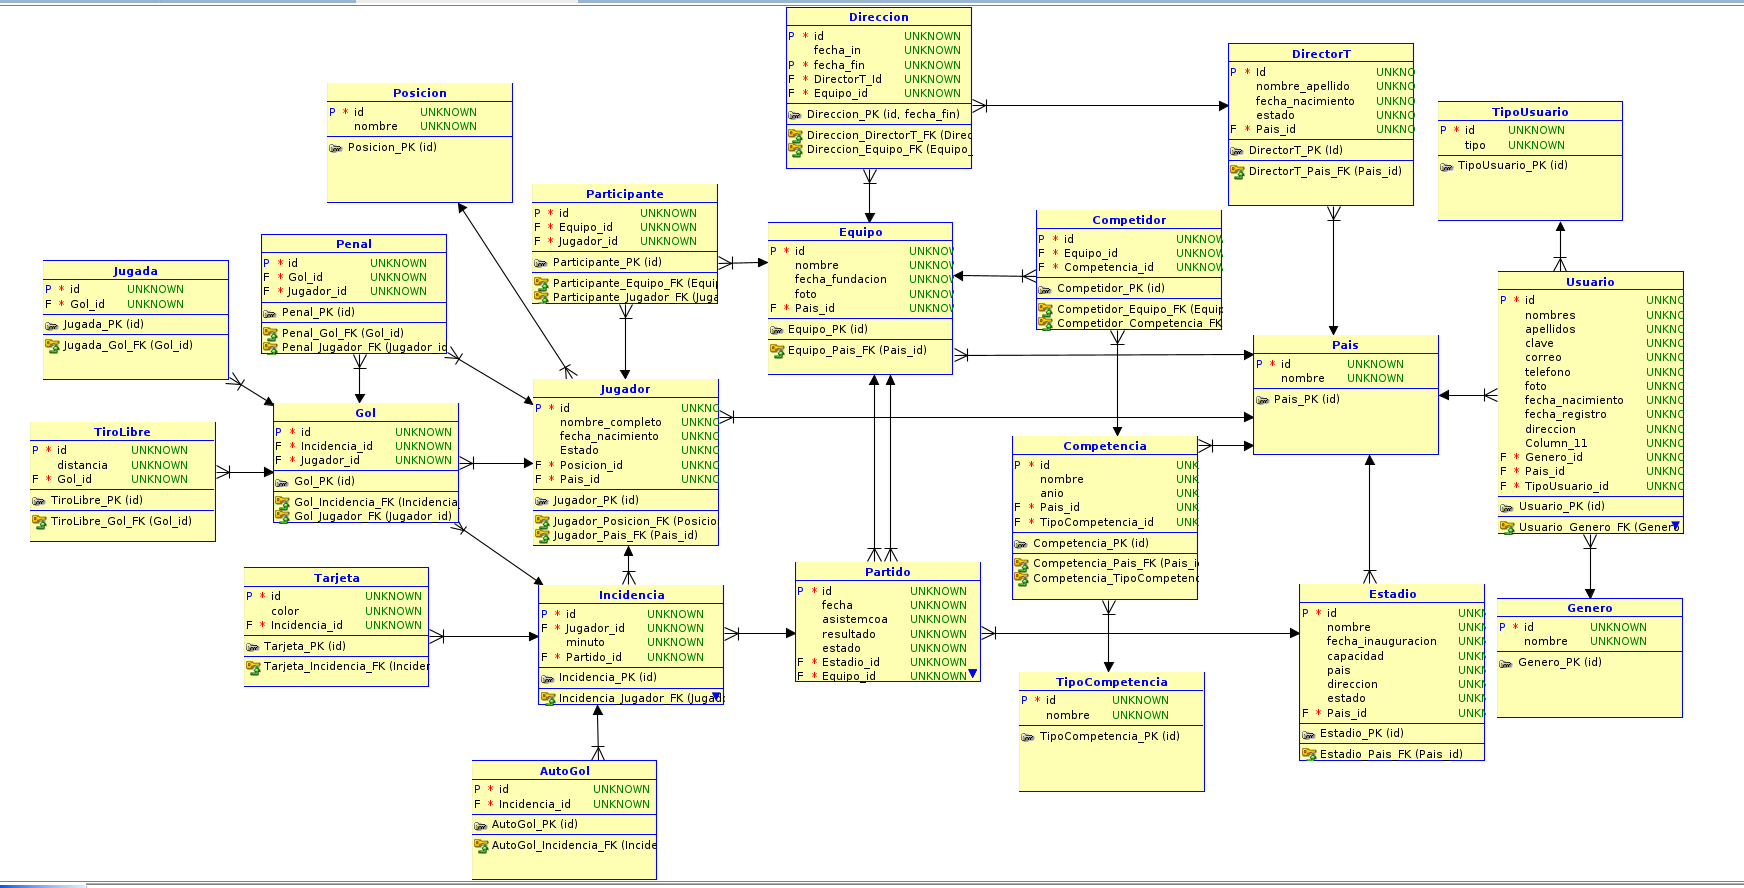
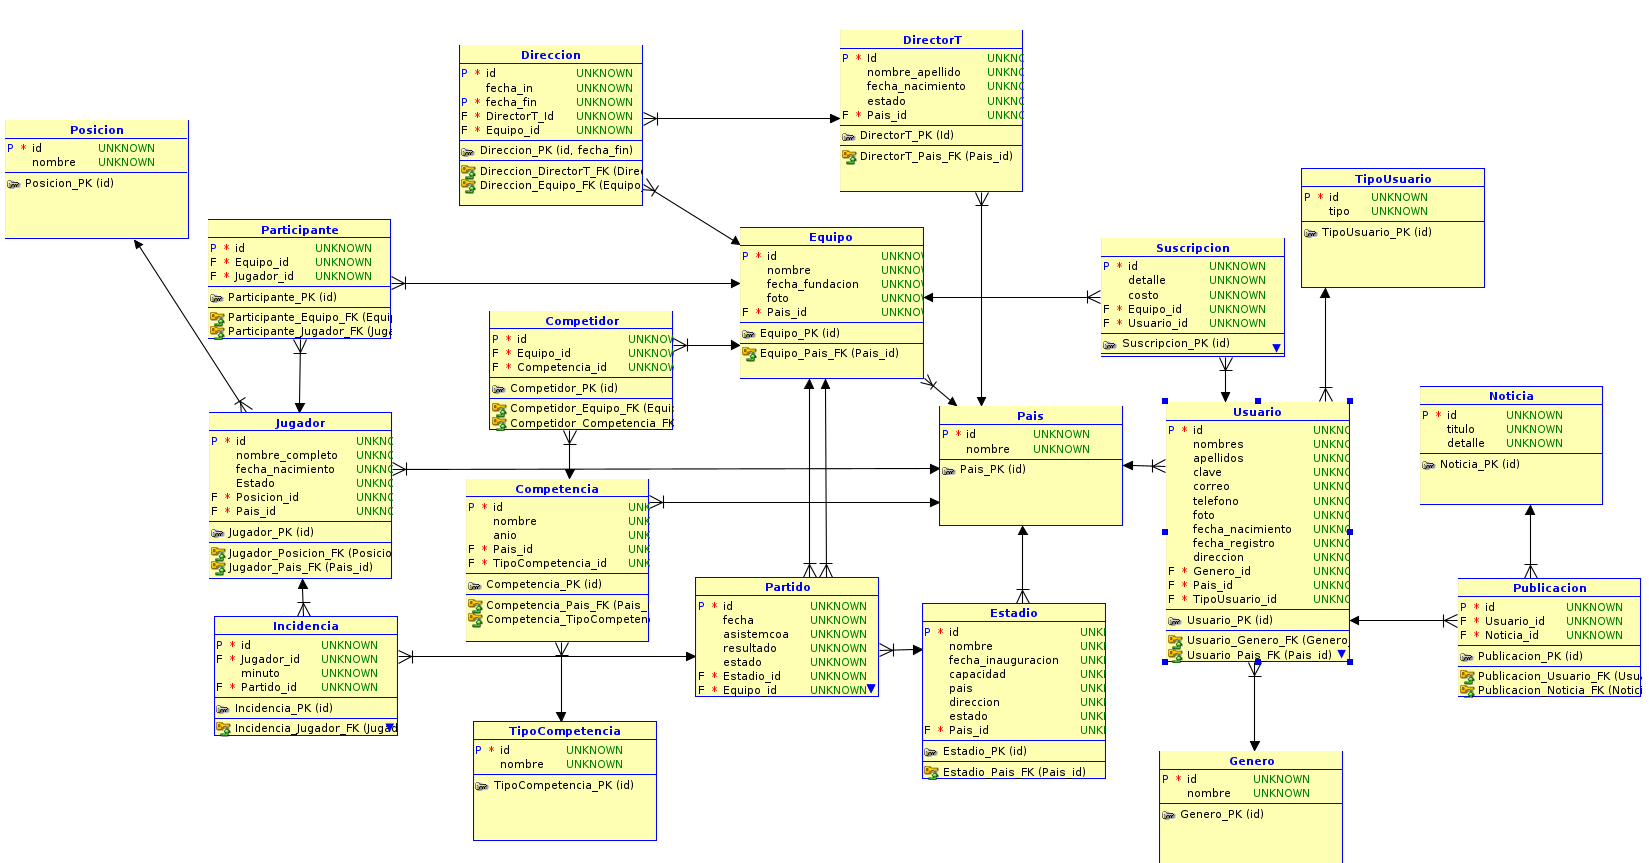
Update Modelo ER, DDL, Consultas
Consultas generales desde backend.

diff --git a/Backend/index.js b/Backend/index.js
@@ -74,6 +74,202 @@ app.post("/AddUser", (req,  res) =>{
 })
 
 
+app.get("/jugador", (req,  res) =>{ 
+  var x=2;
+  oracledb.getConnection(connection, function (err, connection) {
+    if (err) {
+        // Error connecting to DB
+        res.set('Content-Type', 'application/json');
+        res.status(500).send(JSON.stringify({
+            status: 500,
+            message: "Error connecting to DB",
+            detailed_message: err.message
+        }));
+        return;
+    }
+    connection.execute("SELECT * FROM jugador ", {}, {
+        outFormat: oracledb.OBJECT // Return the result as Object
+    }, function (err, result) {
+        if (err) {
+            res.set('Content-Type', 'application/json');
+            res.status(500).send(JSON.stringify({
+                status: 500,
+                message: "Error getting the dba_tablespaces",
+                detailed_message: err.message
+            }));
+        } else {
+          res.set('Content-Type', 'application/json');
+          res.status(200).send(JSON.stringify(result.rows));
+        }
+        
+    });
+});
+})
+
+app.get("/director", (req,  res) =>{ 
+  var x=2;
+  oracledb.getConnection(connection, function (err, connection) {
+    if (err) {
+        // Error connecting to DB
+        res.set('Content-Type', 'application/json');
+        res.status(500).send(JSON.stringify({
+            status: 500,
+            message: "Error connecting to DB",
+            detailed_message: err.message
+        }));
+        return;
+    }
+    connection.execute("SELECT * FROM directort ", {}, {
+        outFormat: oracledb.OBJECT // Return the result as Object
+    }, function (err, result) {
+        if (err) {
+            res.set('Content-Type', 'application/json');
+            res.status(500).send(JSON.stringify({
+                status: 500,
+                message: "Error getting the dba_tablespaces",
+                detailed_message: err.message
+            }));
+        } else {
+          res.set('Content-Type', 'application/json');
+          res.status(200).send(JSON.stringify(result.rows));
+        }
+        
+    });
+});
+})
+
+
+app.get("/equipo", (req,  res) =>{ 
+  var x=2;
+  oracledb.getConnection(connection, function (err, connection) {
+    if (err) {
+        // Error connecting to DB
+        res.set('Content-Type', 'application/json');
+        res.status(500).send(JSON.stringify({
+            status: 500,
+            message: "Error connecting to DB",
+            detailed_message: err.message
+        }));
+        return;
+    }
+    connection.execute("SELECT * FROM equipo ", {}, {
+        outFormat: oracledb.OBJECT // Return the result as Object
+    }, function (err, result) {
+        if (err) {
+            res.set('Content-Type', 'application/json');
+            res.status(500).send(JSON.stringify({
+                status: 500,
+                message: "Error getting the dba_tablespaces",
+                detailed_message: err.message
+            }));
+        } else {
+          res.set('Content-Type', 'application/json');
+          res.status(200).send(JSON.stringify(result.rows));
+        }
+        
+    });
+});
+})
+
+
+app.get("/estadios", (req,  res) =>{ 
+  var x=2;
+  oracledb.getConnection(connection, function (err, connection) {
+    if (err) {
+        // Error connecting to DB
+        res.set('Content-Type', 'application/json');
+        res.status(500).send(JSON.stringify({
+            status: 500,
+            message: "Error connecting to DB",
+            detailed_message: err.message
+        }));
+        return;
+    }
+    connection.execute("SELECT * FROM estadio ", {}, {
+        outFormat: oracledb.OBJECT // Return the result as Object
+    }, function (err, result) {
+        if (err) {
+            res.set('Content-Type', 'application/json');
+            res.status(500).send(JSON.stringify({
+                status: 500,
+                message: "Error getting the dba_tablespaces",
+                detailed_message: err.message
+            }));
+        } else {
+          res.set('Content-Type', 'application/json');
+          res.status(200).send(JSON.stringify(result.rows));
+        }
+        
+    });
+});
+})
+
+
+app.get("/partidos", (req,  res) =>{ 
+  var x=2;
+  oracledb.getConnection(connection, function (err, connection) {
+    if (err) {
+        // Error connecting to DB
+        res.set('Content-Type', 'application/json');
+        res.status(500).send(JSON.stringify({
+            status: 500,
+            message: "Error connecting to DB",
+            detailed_message: err.message
+        }));
+        return;
+    }
+    connection.execute("SELECT * FROM partido ", {}, {
+        outFormat: oracledb.OBJECT // Return the result as Object
+    }, function (err, result) {
+        if (err) {
+            res.set('Content-Type', 'application/json');
+            res.status(500).send(JSON.stringify({
+                status: 500,
+                message: "Error getting the dba_tablespaces",
+                detailed_message: err.message
+            }));
+        } else {
+          res.set('Content-Type', 'application/json');
+          res.status(200).send(JSON.stringify(result.rows));
+        }
+        
+    });
+});
+})
+
+
+app.get("/competiciones", (req,  res) =>{ 
+  var x=2;
+  oracledb.getConnection(connection, function (err, connection) {
+    if (err) {
+        // Error connecting to DB
+        res.set('Content-Type', 'application/json');
+        res.status(500).send(JSON.stringify({
+            status: 500,
+            message: "Error connecting to DB",
+            detailed_message: err.message
+        }));
+        return;
+    }
+    connection.execute("SELECT * FROM competencia ", {}, {
+        outFormat: oracledb.OBJECT // Return the result as Object
+    }, function (err, result) {
+        if (err) {
+            res.set('Content-Type', 'application/json');
+            res.status(500).send(JSON.stringify({
+                status: 500,
+                message: "Error getting the dba_tablespaces",
+                detailed_message: err.message
+            }));
+        } else {
+          res.set('Content-Type', 'application/json');
+          res.status(200).send(JSON.stringify(result.rows));
+        }
+        
+    });
+});
+})
+
 app.get("/", (req,  res) =>{ 
     res.send("hola mundo!");
     enviar();
@@ -1022,7 +1218,7 @@ async  function insertarCompetencias(datos){
     }
   //insertar director 
 
-  if(!existeComp){
+  if(existeComp){
     try {
         conn = await oracledb.getConnection(connection)
         const result = await conn.execute("INSERT INTO competencia VALUES (TEST_ID_SEQ.nextval, '"+itemFile["Nombre"]+"',"+itemFile["Año"]+" ,"+tipo+","+Campeon+", "+pais+" )",{},{autoCommit:true})
